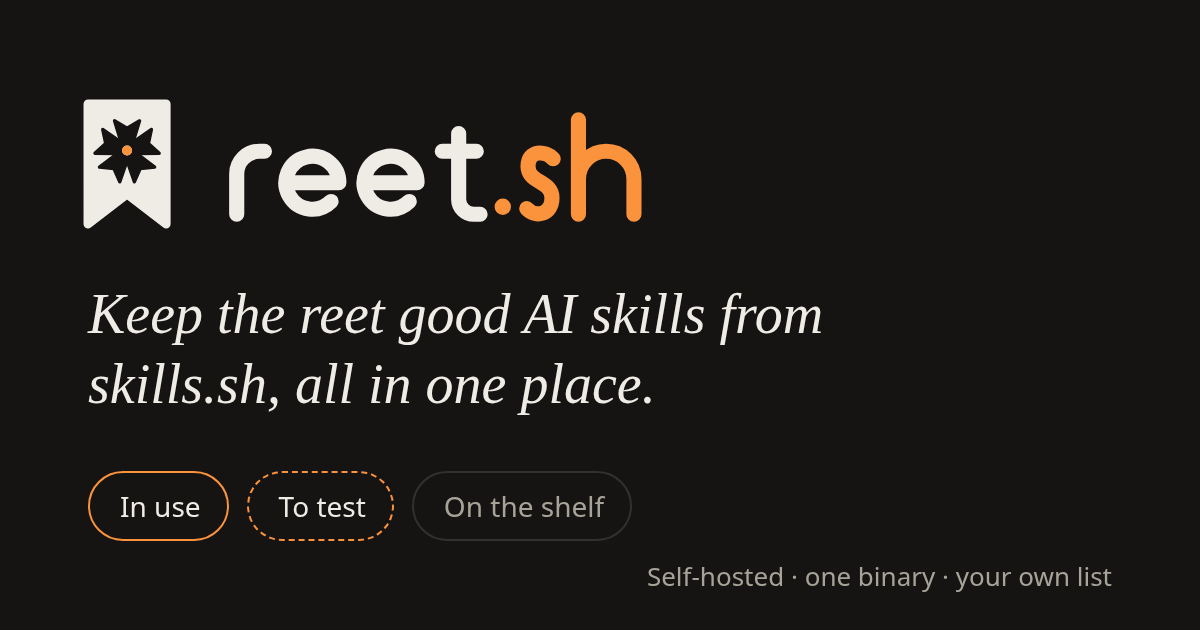
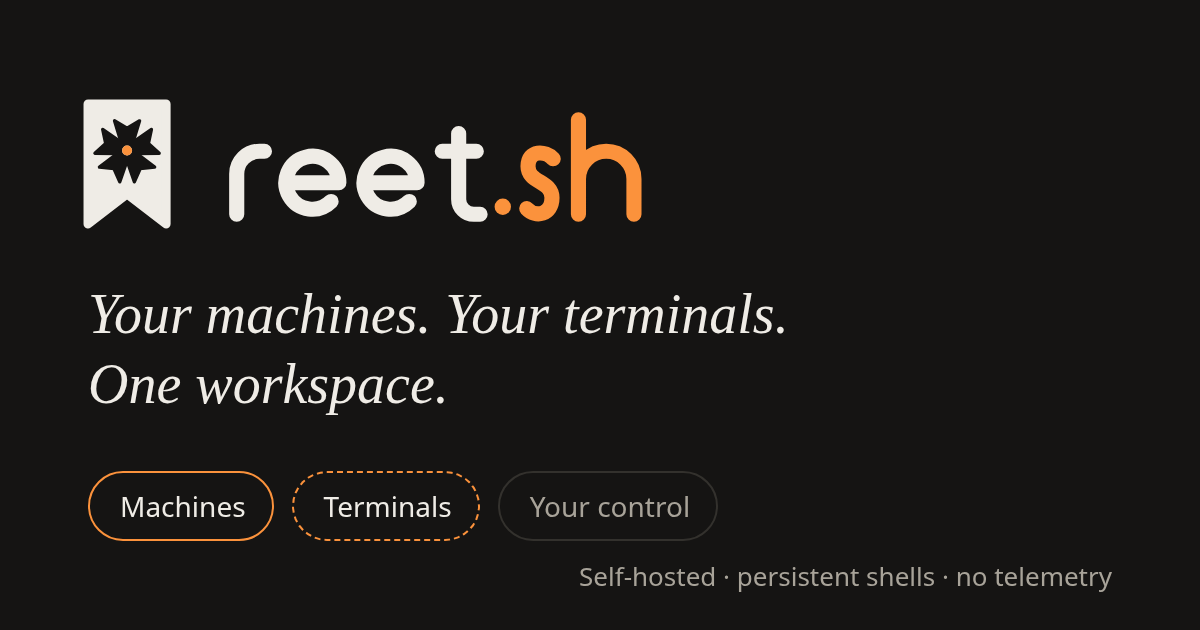
Align shared-link previews with the terminal workspace

diff --git a/web/index.html b/web/index.html
@@ -25,12 +25,12 @@
     <meta property="og:image:type" content="image/png" />
     <meta property="og:image:width" content="1200" />
     <meta property="og:image:height" content="630" />
-    <meta property="og:image:alt" content="The reet.sh wordmark and white rose." />
+    <meta property="og:image:alt" content="reet.sh: Your machines. Your terminals. One workspace." />
     <meta name="twitter:card" content="summary_large_image" />
     <meta name="twitter:title" content="reet.sh – your machines and terminals" />
     <meta name="twitter:description" content="Your machines and persistent terminal sessions in one self-hosted workspace." />
     <meta name="twitter:image" content="https://reet.sh/og-image.png" />
-    <meta name="twitter:image:alt" content="The reet.sh wordmark and white rose." />
+    <meta name="twitter:image:alt" content="reet.sh: Your machines. Your terminals. One workspace." />
 
     <!-- Icons: SVG for modern browsers (follows light/dark), ICO as the fallback, PNGs for iOS and installs. -->
     <link rel="icon" href="/favicon.ico" sizes="48x48" />

diff --git a/brand/og-image.html b/brand/og-image.html
@@ -20,8 +20,8 @@
 </head>
 <body>
   <img src="logo/horizontal-color-dark.svg" alt="reet.sh">
-  <p class="tag">Keep the reet good AI skills from skills.sh, all in one place.</p>
-  <div class="stages"><span class="stage use">In use</span><span class="stage try">To test</span><span class="stage">On the shelf</span></div>
-  <p class="foot">Self-hosted · one binary · your own list</p>
+  <p class="tag">Your machines. Your terminals.<br>One workspace.</p>
+  <div class="stages"><span class="stage use">Machines</span><span class="stage try">Terminals</span><span class="stage">Your control</span></div>
+  <p class="foot">Self-hosted · persistent shells · no telemetry</p>
 </body>
 </html>

diff --git a/handoff.md b/handoff.md
@@ -43,6 +43,8 @@ The signed-out `/` and `/welcome` explain machines, persistent terminals and
 self-hosting. The illustrative workspace is explicitly labelled; its machine and
 session names are examples. Signup, owner setup, account/token sign-in, invitation
 copy, social metadata and the installed-app manifest use workspace language.
+The share-image source is `brand/og-image.html`; regenerate its committed
+`web/public/og-image.png` when changing the public positioning.
 Actual access rules, invite-only restrictions and bootstrap-token requirements
 are unchanged. Private inventories must never be fetched by these public pages.
 
